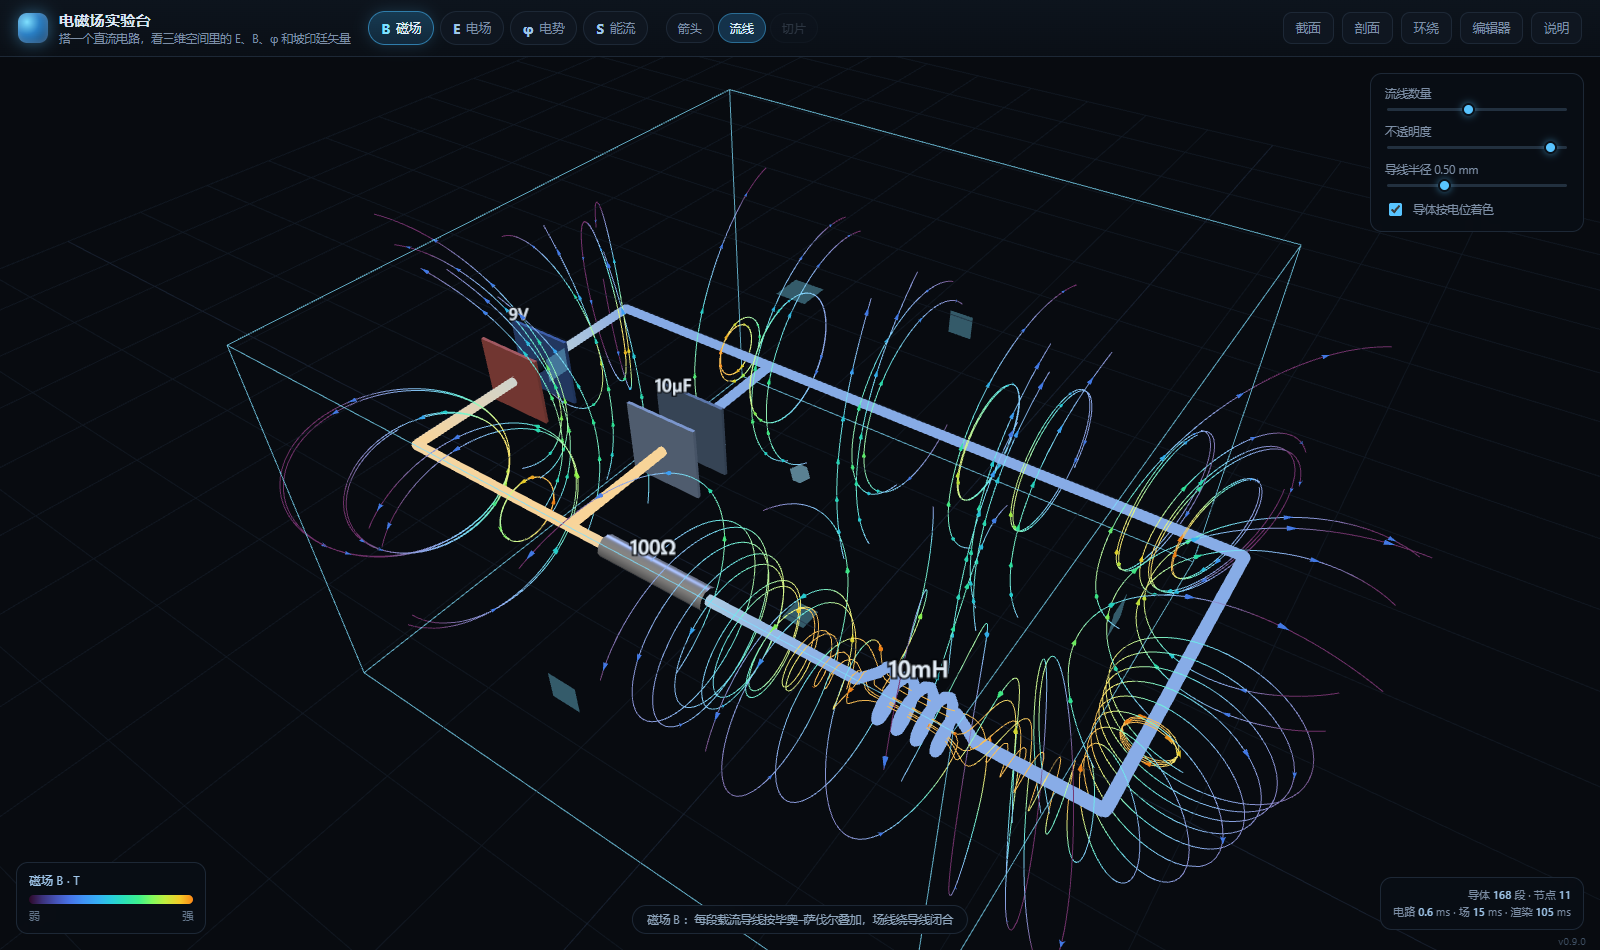
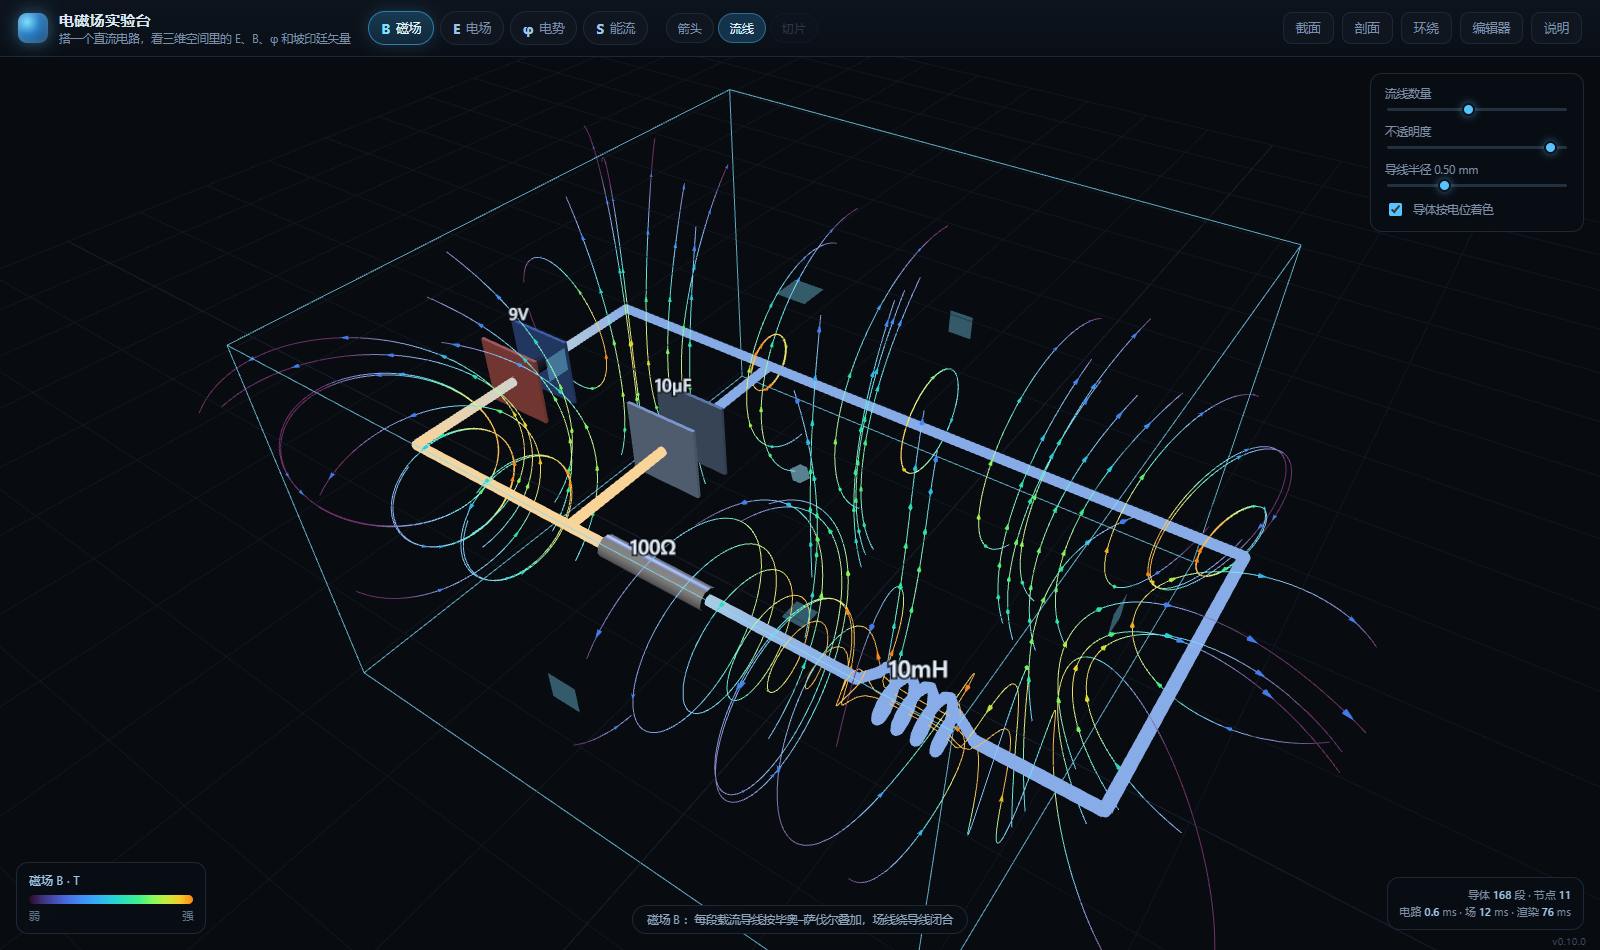
fix: 场线不再穿进元件——每段导体带自己的绘制半径（v0.10.0）
- field: FieldSolver 增加 per-segment radius（rad 数组），interior() 按各自半径判断，
  导体内部场也用各自的 a
- circuit: addPath 支持按位置给半径；电阻本体（0.11）与导线（0.05）、线圈（0.85×）分开
- viz: 新增 nearestConductorRatio()，所有场线（不止 E）进入导体即终止，
  判定用「距离/该段半径」，所以粗的电阻壳也能挡住场线
- test: 增加「每段导体半径」检验
- 版本 0.10.0，文档与截图更新

diff --git a/js/circuit.js b/js/circuit.js
@@ -257,9 +257,9 @@ export function buildScene(circuit, solution, opts = {}) {
   const segs = [];
   const M = METER_PER_UNIT;
 
-  const pushSeg = (p0, p1, pot, cur, eAx = 0) => {
+  const pushSeg = (p0, p1, pot, cur, eAx = 0, radius = null) => {
     const a = V3.mul(p0, M), c = V3.mul(p1, M);
-    segs.push({ p0: a, p1: c, pot, cur, eAx });
+    segs.push({ p0: a, p1: c, pot, cur, eAx, radius });
   };
 
   for (const el of circuit.elements) {
@@ -286,7 +286,11 @@ export function buildScene(circuit, solution, opts = {}) {
           const vA = pot0 + (pot1 - pot0) * tA;
           const vB = pot0 + (pot1 - pot0) * tB;
           const Lm = V3.len(V3.sub(q1, q0)) * M;
-          pushSeg(q0, q1, vA, opts.current ?? I, Lm > 1e-12 ? (vA - vB) / Lm : 0);
+          const tMid = (tA + tB) / 2;
+          const rr = typeof opts.radius === 'function'
+            ? opts.radius(tMid)
+            : (opts.radius ?? wireRadius);
+          pushSeg(q0, q1, vA, opts.current ?? I, Lm > 1e-12 ? (vA - vB) / Lm : 0, rr * M);
         }
       }
     };
@@ -298,7 +302,9 @@ export function buildScene(circuit, solution, opts = {}) {
         break;
       }
       case 'resistor': {
-        addPath([A, B], Va, Vb);
+        // 本体画成半径 0.11 的壳，所以中间那段的「导体半径」也要跟着变，
+        // 否则场线会从壳里穿过去
+        addPath([A, B], Va, Vb, { radius: (t) => (t > 0.2 && t < 0.8 ? 0.11 : wireRadius) });
         const bodyA = V3.add(A, V3.mul(axis, L * 0.22));
         const bodyB = V3.add(A, V3.mul(axis, L * 0.78));
         parts.push({ kind: 'tube', pts: [A, bodyA], radius: wireRadius, mat: 'copper' });
@@ -365,7 +371,7 @@ export function buildScene(circuit, solution, opts = {}) {
           ));
         }
         pts.push(B);
-        addPath(pts, Va, Vb);
+        addPath(pts, Va, Vb, { radius: wireRadius * 0.85 });
         parts.push({ kind: 'tube', pts, radius: wireRadius * 0.85, mat: 'coil' });
         parts.push({ kind: 'label', pos: V3.add(V3.add(A, V3.mul(axis, L * 0.5)), V3.mul(up, 0.45)), text: `${fmt(el.value)}mH` });
         break;
@@ -381,7 +387,7 @@ export function buildScene(circuit, solution, opts = {}) {
 
   // 场求解器
   const solver = new FieldSolver(physicsRadius * M, wireRadius * M);
-  for (const s of segs) solver.add(s.p0, s.p1, s.pot, s.cur, s.eAx);
+  for (const s of segs) solver.add(s.p0, s.p1, s.pot, s.cur, s.eAx, s.radius);
   solver.build().solve();
 
   // 场景包络，供相机取景（注意：segments 是米制，这里换回世界单位）

diff --git a/js/viz.js b/js/viz.js
@@ -271,8 +271,8 @@ export class FieldViz {
     const tmp = [0, 0, 0];
 
     for (const seed of seeds) {
-      const stopR = solver.conductorRadius * 1.15;
-      const line = integrate(fn, seed, box, 0.075, field === 'E' ? 420 : 320, field === 'E' ? solver : null, stopR);
+      // 任何场线都不该穿进导体：按各自半径的比例判定
+      const line = integrate(fn, seed, box, 0.075, field === 'E' ? 420 : 320, solver);
       if (line.length < 3) continue;
       const lineMags = [];
       for (const p of line) {
@@ -582,6 +582,23 @@ function nearestConductor(solver, x, y, z) {
   return best;
 }
 
+/** 距离 / 该段导体自己的半径：<1 表示在导体内部 */
+function nearestConductorRatio(solver, x, y, z) {
+  let best = Infinity;
+  const rad = solver.rad;
+  for (let k = 0; k < solver.n; k++) {
+    const x0 = solver.p0[3 * k], y0 = solver.p0[3 * k + 1], z0 = solver.p0[3 * k + 2];
+    const dx = solver.p1[3 * k] - x0, dy = solver.p1[3 * k + 1] - y0, dz = solver.p1[3 * k + 2] - z0;
+    const l2 = dx * dx + dy * dy + dz * dz;
+    let tt = l2 > 0 ? ((x - x0) * dx + (y - y0) * dy + (z - z0) * dz) / l2 : 0;
+    tt = tt < 0 ? 0 : tt > 1 ? 1 : tt;
+    const px = x - (x0 + dx * tt), py = y - (y0 + dy * tt), pz = z - (z0 + dz * tt);
+    const r = Math.sqrt(px * px + py * py + pz * pz) / (rad ? rad[k] : 0.0005);
+    if (r < best) best = r;
+  }
+  return best;
+}
+
 /** RK4 双向积分一条流线，返回世界坐标点列 */
 function integrate(fn, seed, box, h, maxSteps, stopSolver = null, stopR = 0) {
   const out = [];
@@ -618,8 +635,8 @@ function trace(fn, seed, box, h, maxSteps, sign, stopSolver = null, stopR = 0) {
     z += (h / 6) * (k1[2] + 2 * k2[2] + 2 * k3[2] + k4[2]);
     pts.push([x, y, z]);
     if (!inside([x, y, z])) break;
-    // 电场线终结在导体表面
-    if (stopSolver && step % 2 === 0 && nearestConductor(stopSolver, x * W2M, y * W2M, z * W2M) < stopR) break;
+    // 场线终结在导体表面
+    if (stopSolver && step % 2 === 0 && nearestConductorRatio(stopSolver, x * W2M, y * W2M, z * W2M) < 1.2) break;
     // 闭合的场线（磁场常见）回到起点附近就停，避免绕圈刷点
     if (step > 24) {
       const d2 = (x - seed[0]) ** 2 + (y - seed[1]) ** 2 + (z - seed[2]) ** 2;

diff --git a/js/field.js b/js/field.js
@@ -33,6 +33,7 @@ export class FieldSolver {
     this._pot = [];
     this._cur = [];
     this._eAx = [];
+    this._rad = [];
     this.n = 0;
   }
 
@@ -44,12 +45,13 @@ export class FieldSolver {
    * @param {number} current 分到该段的电流（方向 p0→p1 为正）
    * @param {number} eAxial 导体内部的纵向电场 E = −∂φ/∂l（V/m），方向上 p0→p1 为正
    */
-  add(p0, p1, potential, current = 0, eAxial = 0) {
+  add(p0, p1, potential, current = 0, eAxial = 0, radius = null) {
     this._p0.push(p0[0], p0[1], p0[2]);
     this._p1.push(p1[0], p1[1], p1[2]);
     this._pot.push(potential);
     this._cur.push(current);
     this._eAx.push(eAxial);
+    this._rad.push(radius == null ? this.wireRadius : radius);
   }
 
   /** 把收集到的线段整理成定长数组 */
@@ -61,6 +63,8 @@ export class FieldSolver {
     this.vpot = Float64Array.from(this._pot);
     this.cur = Float64Array.from(this._cur);
     this.eAx = Float64Array.from(this._eAx);
+    // 每段导体的绘制半径（导线、电阻外壳、线圈各不相同）——内部场和「场线是否进入导体」都用它
+    this.rad = Float64Array.from(this._rad);
     this.len = new Float64Array(n);
     this.mid = new Float64Array(n * 3);
     for (let i = 0; i < n; i++) {
@@ -214,11 +218,11 @@ export class FieldSolver {
     if (box && (px < box[0] || px > box[3] || py < box[1] || py > box[4] || pz < box[2] || pz > box[5])) {
       return false;
     }
-    const a = this.conductorRadius;
-    const { p0, p1, len, cur, eAx, n } = this;
+    const { p0, p1, len, cur, eAx, n, rad } = this;
     for (let i = 0; i < n; i++) {
       const L = len[i];
       if (L < 1e-12) continue;
+      const a = rad[i];
       const i3 = 3 * i;
       const ux = (p1[i3] - p0[i3]) / L, uy = (p1[i3 + 1] - p0[i3 + 1]) / L, uz = (p1[i3 + 2] - p0[i3 + 2]) / L;
       const wx = px - p0[i3], wy = py - p0[i3 + 1], wz = pz - p0[i3 + 2];

diff --git a/js/version.js b/js/version.js
@@ -2,5 +2,5 @@
  * version.js —— 版本号的唯一来源
  * BUILD 由 tools/build_single.py 在打包时写入 git 短哈希。
  */
-export const VERSION = '0.9.0';
+export const VERSION = '0.10.0';
 export const BUILD = null;

diff --git a/README.md b/README.md
@@ -256,6 +256,9 @@ em-field-lab/
   归一化是按分位数做的，不设地板的话会把 1e-9 的数值噪音放大成满色箭头，
   看起来就像断路也有能流。断路时 |S|、|B| 会正确地判为零而不显示，但 φ 和 E 仍然存在
   （开路导体依然带电荷），这是对的。
+- **元件的粗细和物理模型是两套尺度**：边界元按 0.2 mm 细线求解，画面上导线 0.5 mm、
+  电阻壳 1.1 mm。为了让场线别从元件里穿过去，每段导体现在都带自己的绘制半径，
+  内部场和「场线是否进入导体」都按它判断。
 - 细长电阻周围的能流并不严格垂直于导线：靠近导线处 E 的轴向分量可能比径向还大，
   所以 S 会斜着指向导体。这是真实的场结构（能量主要沿导线外侧流过去，再折向内部），
   闭合曲面上的总通量仍然对上 I²R。
